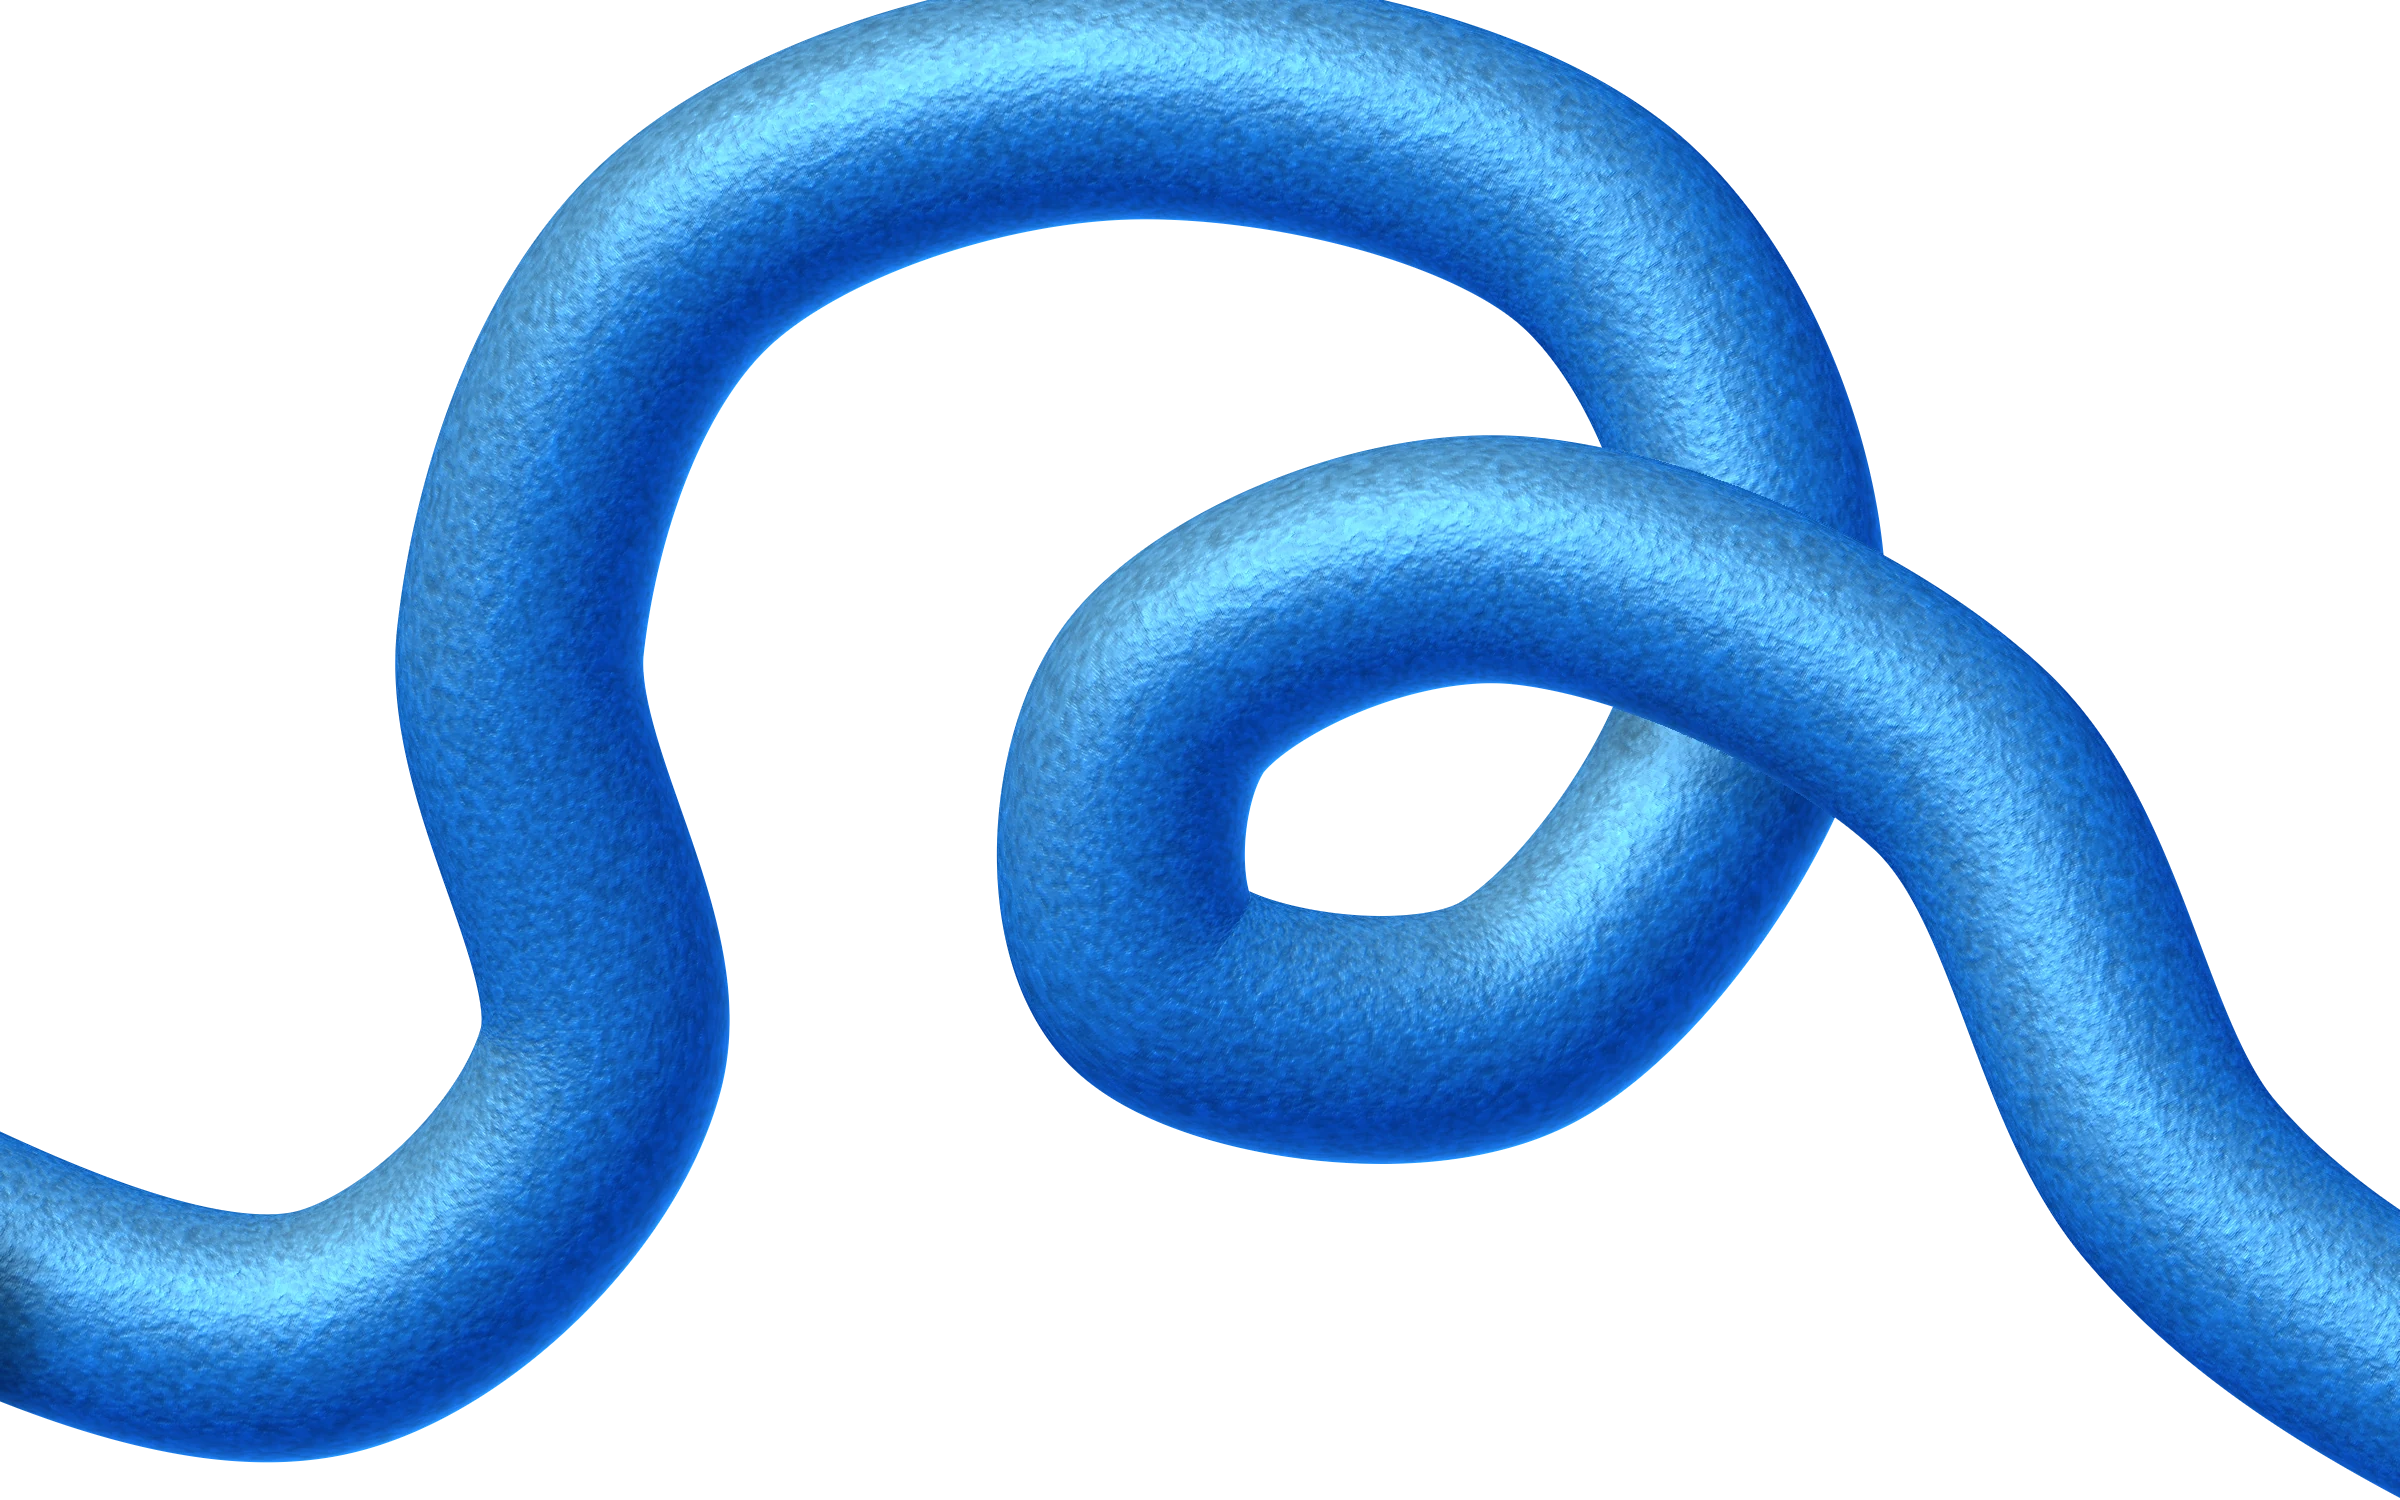
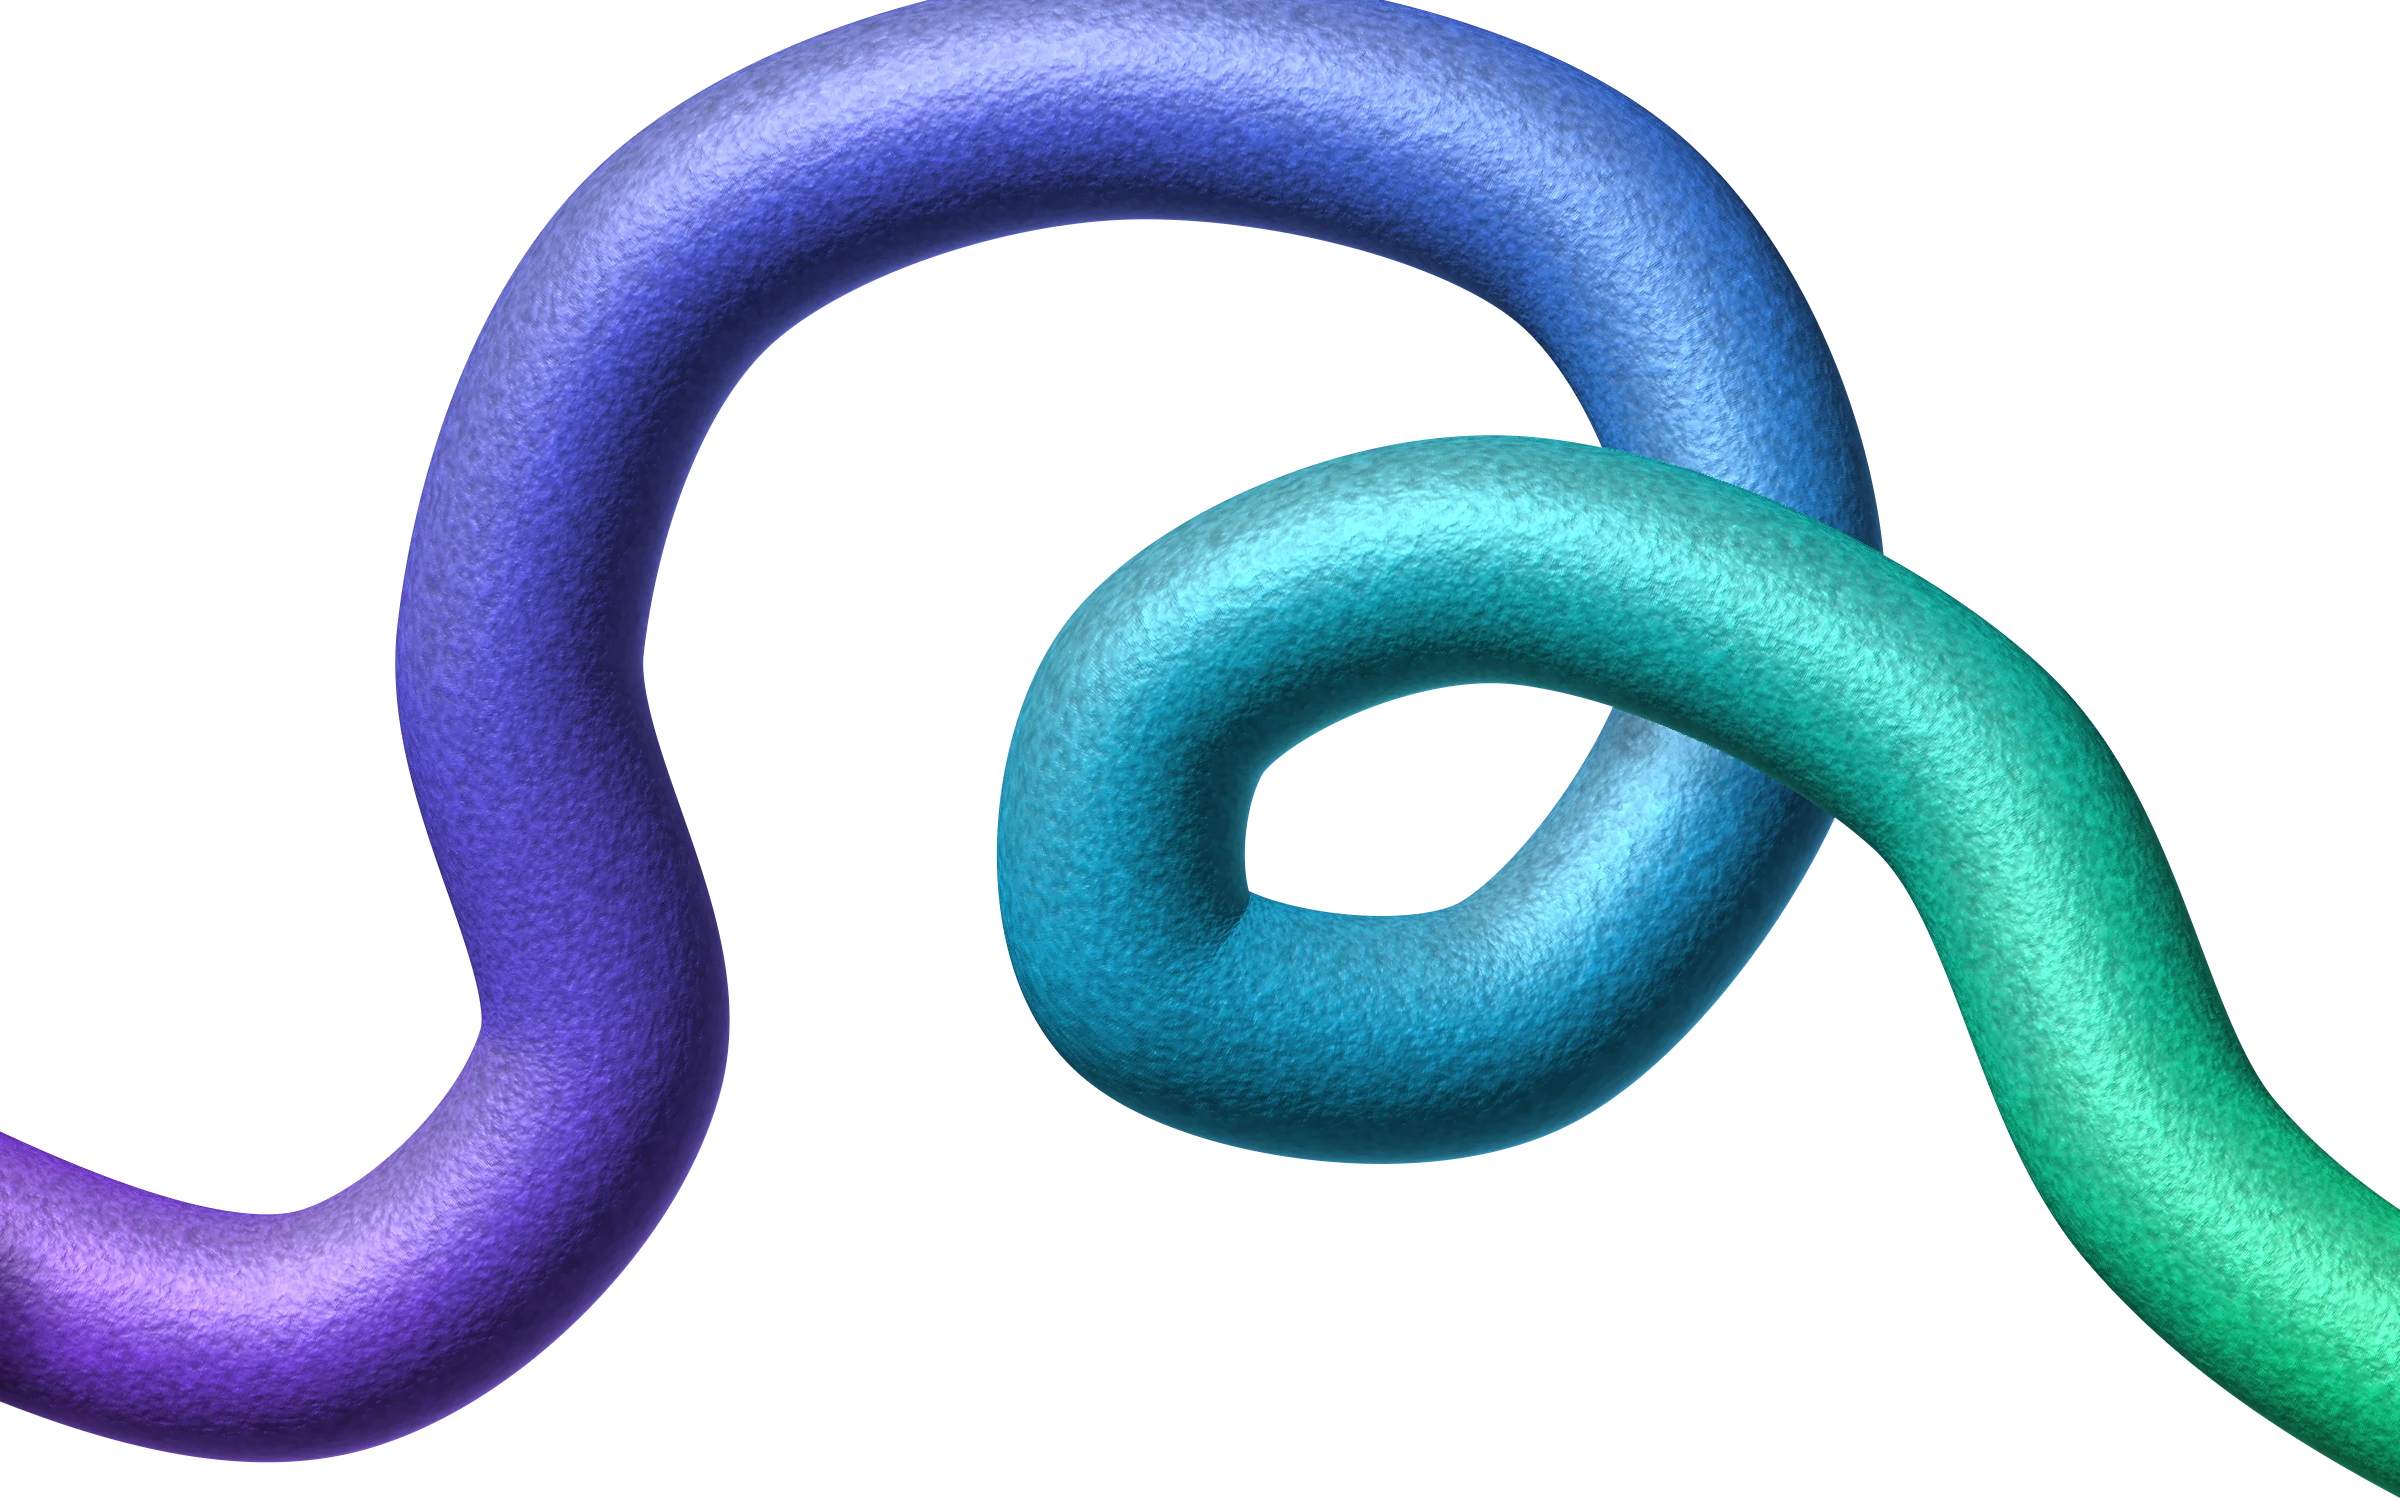
Hero tube in Solana colors; credit the visual inspiration
The hero tube is re-rendered with the Solana gradient along its length
(#9945FF purple, blue, teal, #14F195 green) instead of a solid blue, using
the same foam texture and lighting. The README now says the playful sticker
style was inspired by wallet sites such as Slush, and that all code,
artwork and copy are our own.

diff --git a/app/scripts/render-tube.py b/app/scripts/render-tube.py
@@ -169,19 +169,37 @@ def main():
     # cool rim on the shadow side
     rim = np.clip(1 - nz, 0, 1) ** 2.4 * np.clip(-(nx * L[0] + ny * L[1]) * 1.4, 0, 1)
 
-    deep = np.array([0.02, 0.30, 0.80])
-    mid = np.array([0.12, 0.55, 1.00])
-    light = np.array([0.46, 0.79, 1.00])
+    # Solana gradient along the tube's length: purple -> blue -> teal -> green.
+    # Each pixel takes the base color of its spot along the path, then is shaded
+    # from a deep tone (in shadow) to a light tone (facing the light).
+    stops = [
+        (0.00, np.array([0.60, 0.27, 1.00])),  # #9945FF
+        (0.34, np.array([0.36, 0.42, 1.00])),  # violet-blue
+        (0.62, np.array([0.10, 0.72, 0.92])),  # teal
+        (1.00, np.array([0.08, 0.95, 0.58])),  # #14F195
+    ]
+    g = np.clip(tu / max(arclen[-1], 1.0), 0, 1)
+    base = np.zeros((H, W, 3))
+    for (g0, c0), (g1, c1) in zip(stops, stops[1:]):
+        seg = (g >= g0) & (g <= g1)
+        f = ((g - g0) / (g1 - g0))[..., None]
+        f = f * f * (3 - 2 * f)  # smoothstep, so the hue changes have no hard seams
+        base = np.where(seg[..., None], c0 + (c1 - c0) * f, base)
+
+    deep = base * 0.38
+    mid = base
+    light = base + (1 - base) * 0.42
     t = lambert[..., None]
     col = np.where(t < 0.55, deep + (mid - deep) * (t / 0.55), mid + (light - mid) * ((t - 0.55) / 0.45))
 
     ao = 0.64 + 0.36 * F  # pores sit darker
     col = col * ao[..., None]
-    col += spec[..., None] * np.array([0.55, 0.84, 1.0]) * 0.38
-    col += rim[..., None] * np.array([0.35, 0.85, 0.95]) * 0.55
+    tint = base + (1 - base) * 0.6  # highlights pick up the local hue
+    col += spec[..., None] * tint * 0.38
+    col += rim[..., None] * (base + (1 - base) * 0.35) * 0.55
     # bright flecks on the foam tips
     fleck = np.clip((F - 0.8) / 0.2, 0, 1) * lambert
-    col += fleck[..., None] * np.array([0.55, 0.85, 1.0]) * 0.3
+    col += fleck[..., None] * tint * 0.3
 
     # Soft contact shadow where a later stretch of tube passes over an earlier
     # one: look back toward the light; if a much later segment is there, this

diff --git a/README.md b/README.md
@@ -155,5 +155,10 @@ earlier project our team built on another chain; no code was reused from it. The
 Liquid Pass logo and its animated version (used for the Liquidity AI button) are our
 team's existing brand assets.
 
+The site's visual style was inspired by the playful sticker look of modern wallet
+sites such as Slush. All code, artwork and copy are our own: the hero tube is our own
+3D render in Solana's colors (`app/scripts/render-tube.py`), the stickers and plan
+logos are drawn by our code, and the fonts are the open-source Anton and Figtree.
+
 AI tools used: **Claude Code** (Anthropic) assisted with writing code, and **Google
 Gemini** powers Liquidity AI and the in-app pass assistant.
